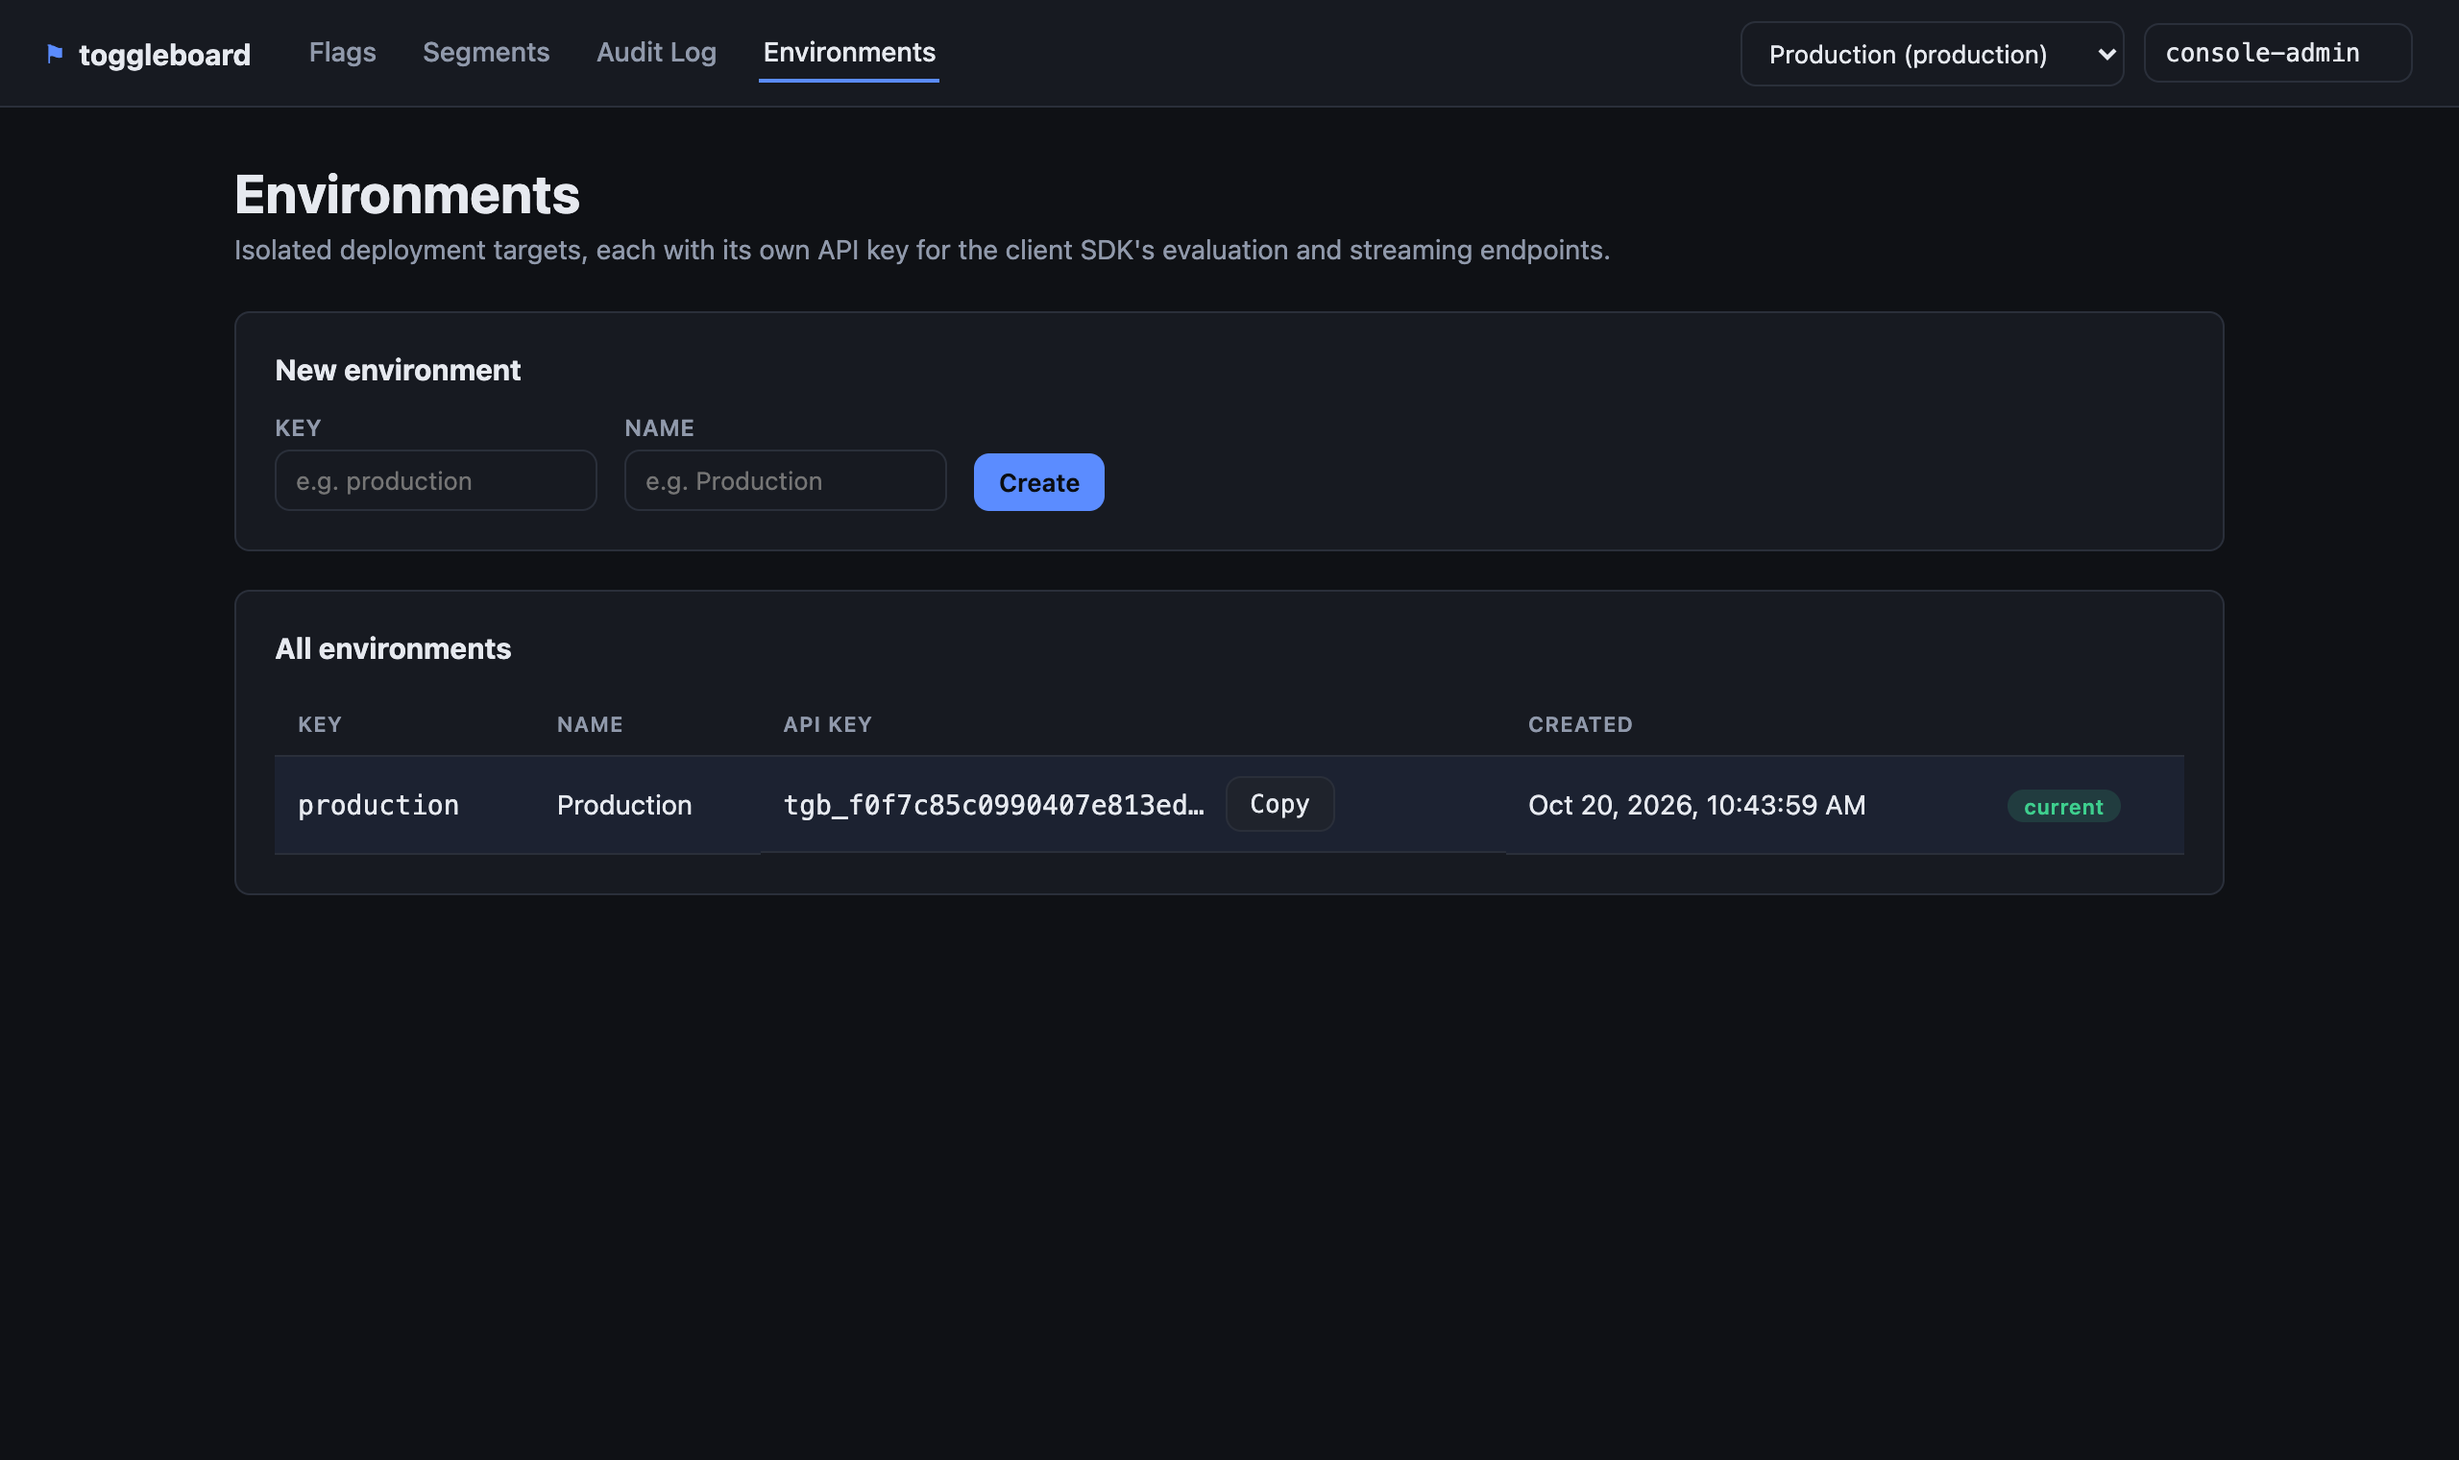
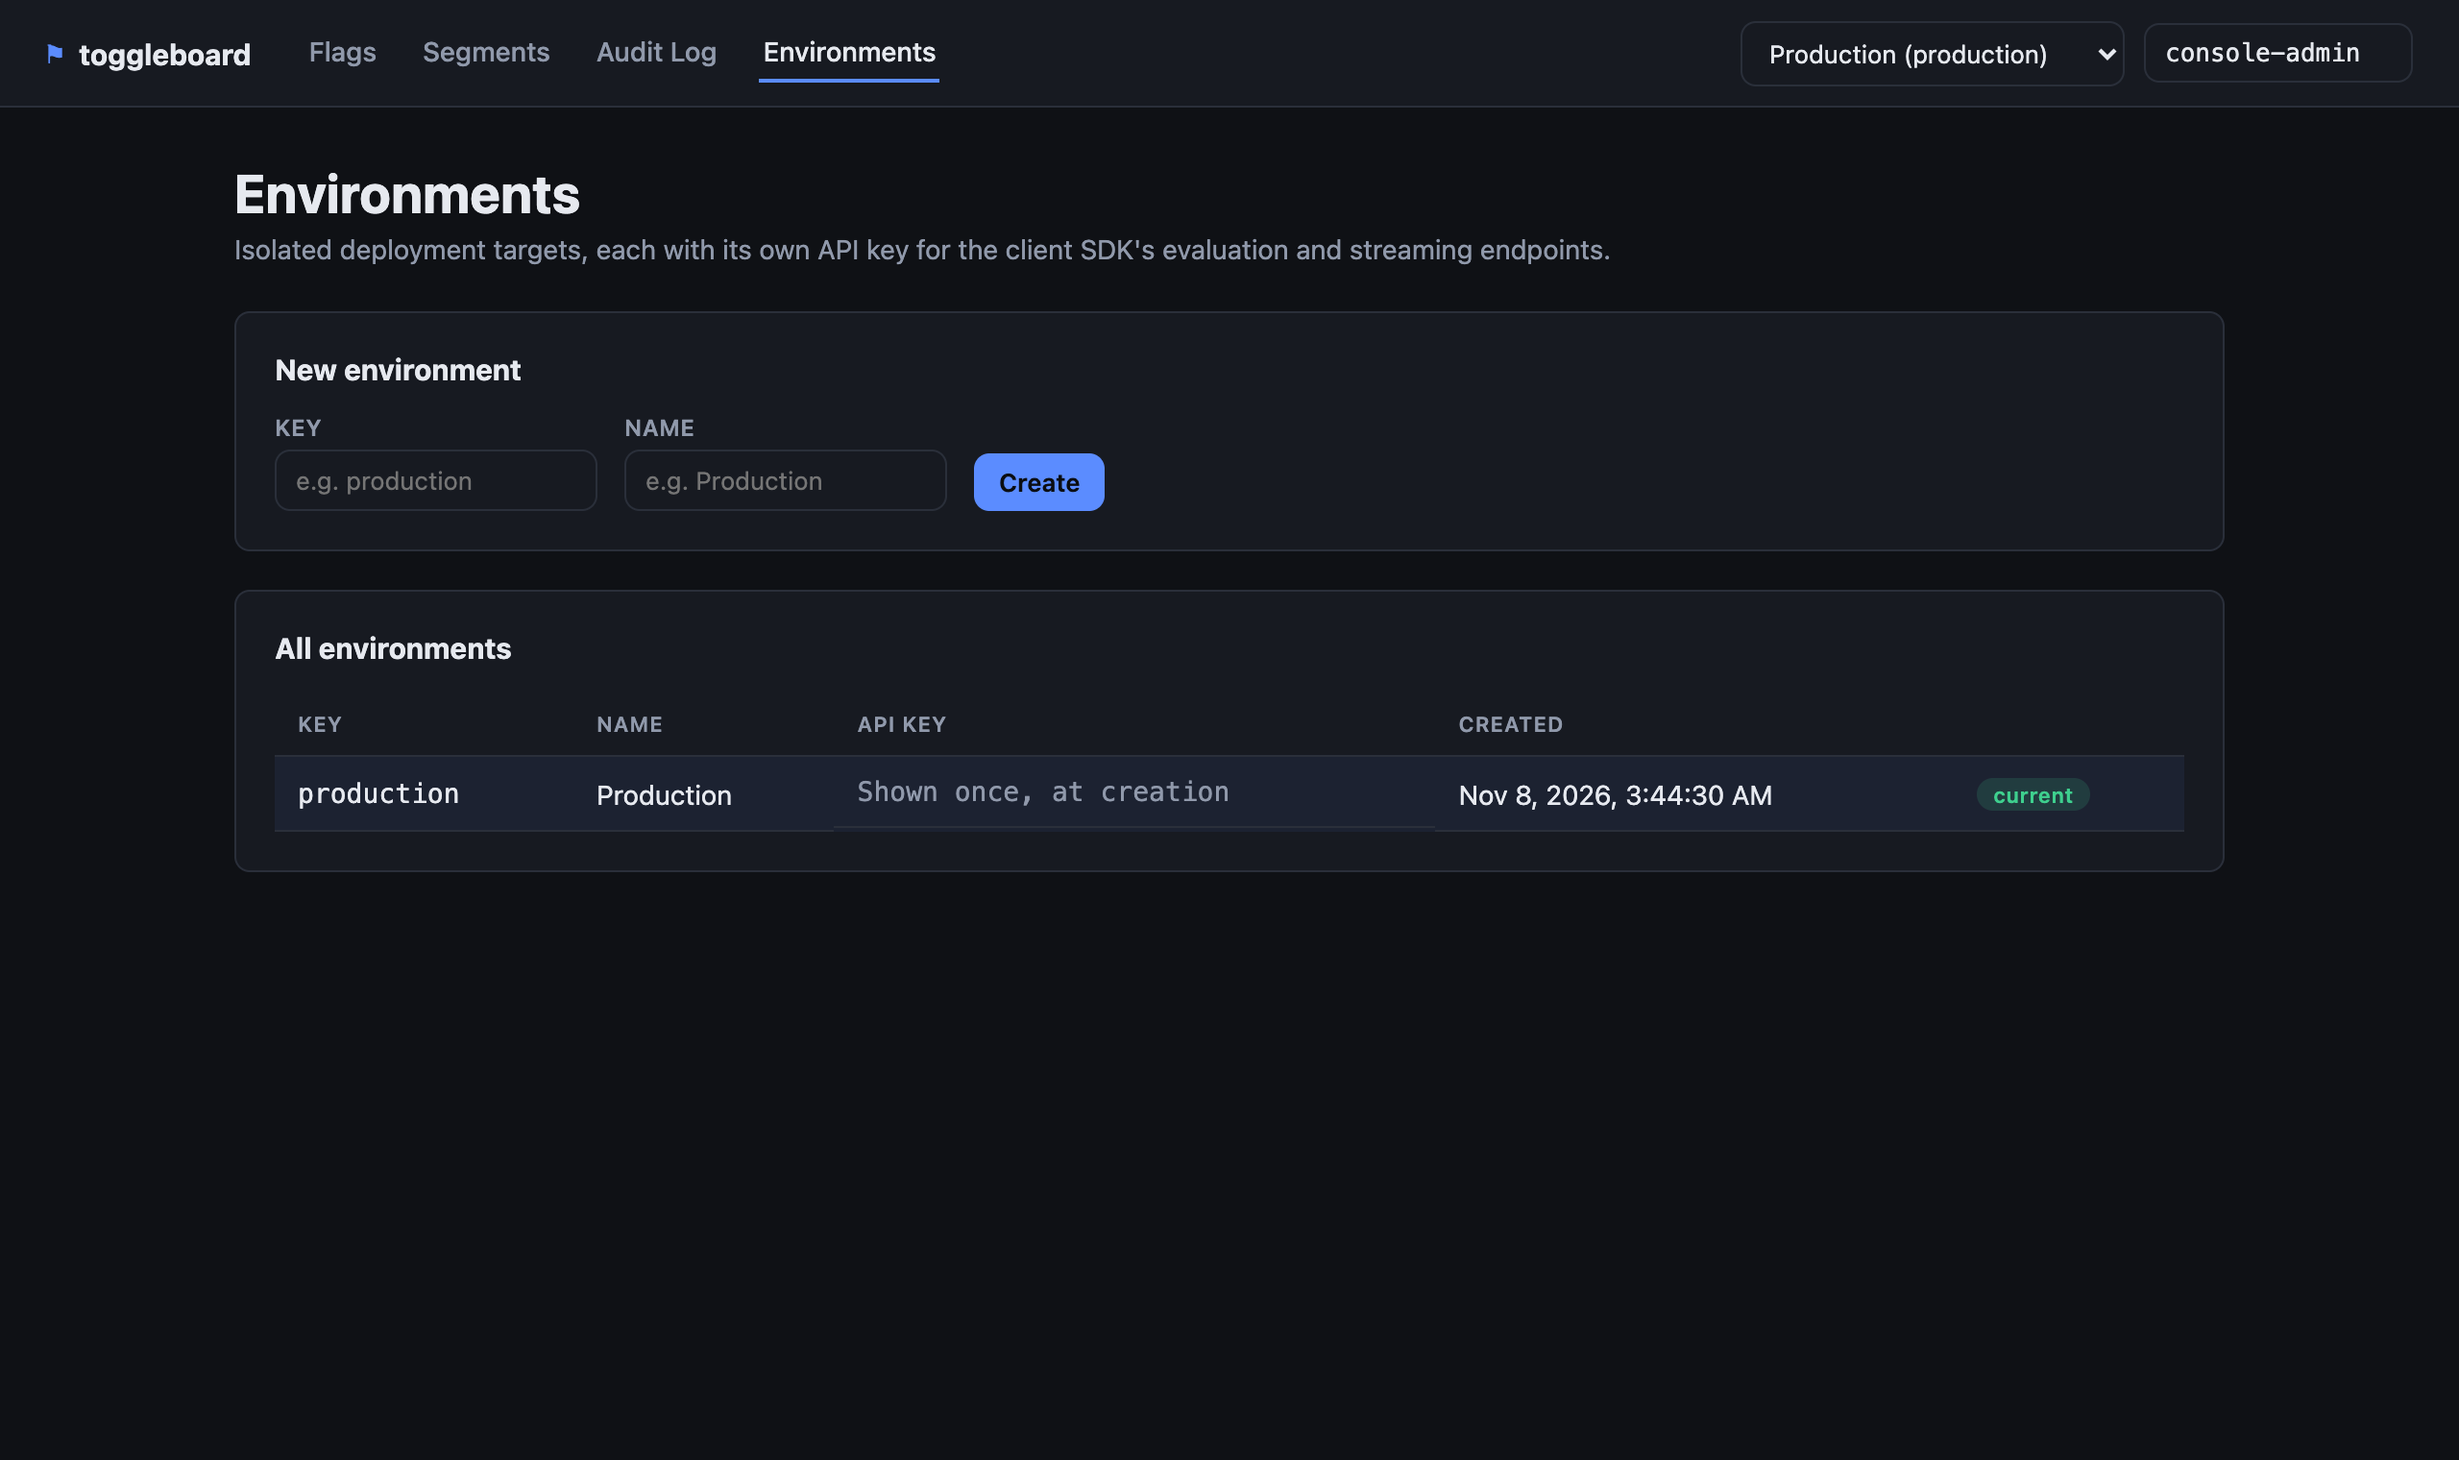
Fix #11: Environment API keys are returned in plaintext to any unauthenticated caller (#13)
* test: regression tests for plaintext apiKey leaking via GET endpoints

GET /api/v1/environments, GET /api/v1/environments/{key}, and
GET /api/v1/environments/{key}/audit are unauthenticated by design but
currently return the environment's live apiKey in plain text, defeating
the API-key auth model for /evaluate and /stream (issue #11).

* fix(api): stop leaking environment apiKey through unauthenticated GET endpoints

GET /api/v1/environments, GET /api/v1/environments/{key} and the audit log
all returned the live apiKey in plaintext to unauthenticated callers,
defeating the API-key auth model for /evaluate and /stream. List/get now
return a key-less summary, and the create audit entry records a redacted
snapshot instead of the raw Environment. POST /api/v1/environments is
unchanged and still returns the apiKey once, at creation time.

* fix(console): handle environments without a live apiKey in the list view

The Environments page read apiKey off every row returned by GET
/api/v1/environments, which is no longer present now that the API doesn't
leak it there. Show "Shown once, at creation" for rows without a captured
key instead of rendering undefined, and regenerate the affected screenshot.

diff --git a/toggleboard-console/src/app/features/environments/environments-page.component.html b/toggleboard-console/src/app/features/environments/environments-page.component.html
@@ -40,10 +40,14 @@
               <td class="mono">{{ env.key }}</td>
               <td>{{ env.name }}</td>
               <td class="mono apikey-cell">
-                <span>{{ env.apiKey }}</span>
-                <button type="button" (click)="copyApiKey(env.apiKey)">
-                  {{ copiedKey === env.apiKey ? 'Copied!' : 'Copy' }}
-                </button>
+                @if (env.apiKey) {
+                  <span>{{ env.apiKey }}</span>
+                  <button type="button" (click)="copyApiKey(env.apiKey)">
+                    {{ copiedKey === env.apiKey ? 'Copied!' : 'Copy' }}
+                  </button>
+                } @else {
+                  <span class="muted">Shown once, at creation</span>
+                }
               </td>
               <td>{{ env.createdAt | date: 'medium' }}</td>
               <td>

diff --git a/toggleboard-console/src/app/core/models.ts b/toggleboard-console/src/app/core/models.ts
@@ -9,7 +9,9 @@ export type AuditEntityType = 'FLAG' | 'ENVIRONMENT' | 'SEGMENT';
 export interface ToggleboardEnvironment {
   key: string;
   name: string;
-  apiKey: string;
+  // Only present on the create response; list/get responses omit it so the
+  // live key is never returned to an unauthenticated reader.
+  apiKey?: string;
   createdAt: string;
 }
 

diff --git a/toggleboard-console/src/app/features/environments/environments-page.component.css b/toggleboard-console/src/app/features/environments/environments-page.component.css
@@ -48,3 +48,7 @@ tr.current {
   overflow: hidden;
   text-overflow: ellipsis;
 }
+
+.apikey-cell .muted {
+  color: var(--text-dim);
+}

diff --git a/toggleboard-api/src/test/java/com/toggleboard/api/web/AuditControllerTest.java b/toggleboard-api/src/test/java/com/toggleboard/api/web/AuditControllerTest.java
@@ -1,5 +1,6 @@
 package com.toggleboard.api.web;
 
+import com.fasterxml.jackson.databind.JsonNode;
 import com.fasterxml.jackson.databind.ObjectMapper;
 import org.junit.jupiter.api.BeforeEach;
 import org.junit.jupiter.api.Test;
@@ -7,10 +8,12 @@ import org.springframework.beans.factory.annotation.Autowired;
 import org.springframework.boot.test.autoconfigure.web.servlet.AutoConfigureMockMvc;
 import org.springframework.boot.test.context.SpringBootTest;
 import org.springframework.test.web.servlet.MockMvc;
+import org.springframework.test.web.servlet.MvcResult;
 
 import java.util.Map;
 import java.util.UUID;
 
+import static org.assertj.core.api.Assertions.assertThat;
 import static org.springframework.test.web.servlet.request.MockMvcRequestBuilders.get;
 import static org.springframework.test.web.servlet.request.MockMvcRequestBuilders.post;
 import static org.springframework.test.web.servlet.request.MockMvcRequestBuilders.put;
@@ -28,14 +31,17 @@ class AuditControllerTest {
     private ObjectMapper objectMapper;
 
     private String environmentKey;
+    private String environmentApiKey;
 
     @BeforeEach
     void setUp() throws Exception {
         environmentKey = "env-" + UUID.randomUUID().toString().substring(0, 8);
         String body = objectMapper.writeValueAsString(Map.of("key", environmentKey, "name", "Test Env"));
-        mockMvc.perform(post("/api/v1/environments").contentType("application/json").content(body)
+        MvcResult result = mockMvc.perform(post("/api/v1/environments").contentType("application/json").content(body)
                         .header("X-Role", "admin"))
-                .andExpect(status().isCreated());
+                .andExpect(status().isCreated())
+                .andReturn();
+        environmentApiKey = objectMapper.readTree(result.getResponse().getContentAsString()).path("apiKey").asText();
     }
 
     @Test
@@ -70,6 +76,28 @@ class AuditControllerTest {
                 .andExpect(jsonPath("$[0].actor").value("bob"))
                 .andExpect(jsonPath("$[1].action").value("CREATE"))
                 .andExpect(jsonPath("$[1].actor").value("alice"));
+    }
+
+    @Test
+    void unauthenticatedAuditReadDoesNotExposeThePlaintextApiKey() throws Exception {
+        assertThat(environmentApiKey).as("environment apiKey captured from create response").isNotBlank();
+
+        MvcResult result = mockMvc.perform(get("/api/v1/environments/" + environmentKey + "/audit"))
+                .andExpect(status().isOk())
+                .andExpect(jsonPath("$[0].action").value("CREATE"))
+                .andReturn();
+
+        JsonNode entries = objectMapper.readTree(result.getResponse().getContentAsString());
+        JsonNode createEntry = entries.get(0);
+        String after = createEntry.path("after").asText("");
+        String before = createEntry.path("before").asText("");
+
+        assertThat(after)
+                .as("audit 'after' snapshot for the ENVIRONMENT CREATE entry must not leak the plaintext apiKey")
+                .doesNotContain(environmentApiKey);
+        assertThat(before)
+                .as("audit 'before' snapshot for the ENVIRONMENT CREATE entry must not leak the plaintext apiKey")
+                .doesNotContain(environmentApiKey);
     }
 
     @Test

diff --git a/toggleboard-api/src/test/java/com/toggleboard/api/web/EnvironmentControllerTest.java b/toggleboard-api/src/test/java/com/toggleboard/api/web/EnvironmentControllerTest.java
@@ -1,14 +1,17 @@
 package com.toggleboard.api.web;
 
+import com.fasterxml.jackson.databind.JsonNode;
 import com.fasterxml.jackson.databind.ObjectMapper;
 import org.junit.jupiter.api.Test;
 import org.springframework.beans.factory.annotation.Autowired;
 import org.springframework.boot.test.autoconfigure.web.servlet.AutoConfigureMockMvc;
 import org.springframework.boot.test.context.SpringBootTest;
 import org.springframework.test.web.servlet.MockMvc;
+import org.springframework.test.web.servlet.MvcResult;
 
 import java.util.UUID;
 
+import static org.assertj.core.api.Assertions.assertThat;
 import static org.springframework.test.web.servlet.request.MockMvcRequestBuilders.get;
 import static org.springframework.test.web.servlet.request.MockMvcRequestBuilders.post;
 import static org.springframework.test.web.servlet.result.MockMvcResultMatchers.jsonPath;
@@ -101,6 +104,46 @@ class EnvironmentControllerTest {
         mockMvc.perform(get("/api/v1/environments"))
                 .andExpect(status().isOk())
                 .andExpect(jsonPath("$[?(@.key == '" + key + "')]").exists());
+    }
+
+    @Test
+    void listingEnvironmentsWithoutAnyCredentialsDoesNotExposeTheApiKey() throws Exception {
+        String key = uniqueKey();
+        String body = objectMapper.writeValueAsString(new CreateRequest(key, "Production"));
+        mockMvc.perform(post("/api/v1/environments").contentType("application/json").content(body)
+                        .header("X-Role", "admin"))
+                .andExpect(status().isCreated());
+
+        MvcResult result = mockMvc.perform(get("/api/v1/environments"))
+                .andExpect(status().isOk())
+                .andReturn();
+
+        JsonNode list = objectMapper.readTree(result.getResponse().getContentAsString());
+        JsonNode match = null;
+        for (JsonNode node : list) {
+            if (key.equals(node.path("key").asText())) {
+                match = node;
+                break;
+            }
+        }
+        assertThat(match).as("environment '%s' in unauthenticated list response", key).isNotNull();
+        assertThat(match.has("apiKey"))
+                .as("unauthenticated GET /api/v1/environments must not leak the plaintext apiKey")
+                .isFalse();
+    }
+
+    @Test
+    void gettingAnEnvironmentByKeyWithoutAnyCredentialsDoesNotExposeTheApiKey() throws Exception {
+        String key = uniqueKey();
+        String body = objectMapper.writeValueAsString(new CreateRequest(key, "Production"));
+        mockMvc.perform(post("/api/v1/environments").contentType("application/json").content(body)
+                        .header("X-Role", "admin"))
+                .andExpect(status().isCreated());
+
+        mockMvc.perform(get("/api/v1/environments/" + key))
+                .andExpect(status().isOk())
+                .andExpect(jsonPath("$.key").value(key))
+                .andExpect(jsonPath("$.apiKey").doesNotExist());
     }
 
     private String uniqueKey() {

diff --git a/toggleboard-api/src/main/java/com/toggleboard/api/web/EnvironmentController.java b/toggleboard-api/src/main/java/com/toggleboard/api/web/EnvironmentController.java
@@ -4,6 +4,7 @@ import com.toggleboard.api.domain.Environment;
 import com.toggleboard.api.service.EnvironmentService;
 import com.toggleboard.api.web.dto.CreateEnvironmentRequest;
 import com.toggleboard.api.web.dto.EnvironmentResponse;
+import com.toggleboard.api.web.dto.EnvironmentSummaryResponse;
 import io.swagger.v3.oas.annotations.Operation;
 import io.swagger.v3.oas.annotations.tags.Tag;
 import jakarta.validation.Valid;
@@ -39,14 +40,14 @@ public class EnvironmentController {
     }
 
     @GetMapping
-    @Operation(summary = "List all environments")
-    public List<EnvironmentResponse> listAll() {
-        return environmentService.listAll().stream().map(EnvironmentResponse::from).toList();
+    @Operation(summary = "List all environments", description = "Does not include the apiKey; that is only returned at creation time")
+    public List<EnvironmentSummaryResponse> listAll() {
+        return environmentService.listAll().stream().map(EnvironmentSummaryResponse::from).toList();
     }
 
     @GetMapping("/{key}")
-    @Operation(summary = "Get a single environment by key")
-    public EnvironmentResponse getByKey(@PathVariable String key) {
-        return EnvironmentResponse.from(environmentService.getByKey(key));
+    @Operation(summary = "Get a single environment by key", description = "Does not include the apiKey; that is only returned at creation time")
+    public EnvironmentSummaryResponse getByKey(@PathVariable String key) {
+        return EnvironmentSummaryResponse.from(environmentService.getByKey(key));
     }
 }

diff --git a/toggleboard-api/src/main/java/com/toggleboard/api/service/EnvironmentService.java b/toggleboard-api/src/main/java/com/toggleboard/api/service/EnvironmentService.java
@@ -28,8 +28,12 @@ public class EnvironmentService {
         }
         Environment environment = new Environment(key, name, generateApiKey(), Instant.now());
         environmentRepository.save(environment);
-        auditService.recordCreate(key, AuditEntityType.ENVIRONMENT, key, actor, environment);
+        auditService.recordCreate(key, AuditEntityType.ENVIRONMENT, key, actor,
+                new EnvironmentAuditSnapshot(environment.key(), environment.name(), environment.createdAt()));
         return environment;
+    }
+
+    private record EnvironmentAuditSnapshot(String key, String name, Instant createdAt) {
     }
 
     public Environment getByKey(String key) {

diff --git a/toggleboard-api/src/main/java/com/toggleboard/api/web/dto/EnvironmentSummaryResponse.java b/toggleboard-api/src/main/java/com/toggleboard/api/web/dto/EnvironmentSummaryResponse.java
@@ -1,0 +1,15 @@
+package com.toggleboard.api.web.dto;
+
+import com.toggleboard.api.domain.Environment;
+
+import java.time.Instant;
+
+public record EnvironmentSummaryResponse(
+        String key,
+        String name,
+        Instant createdAt
+) {
+    public static EnvironmentSummaryResponse from(Environment environment) {
+        return new EnvironmentSummaryResponse(environment.key(), environment.name(), environment.createdAt());
+    }
+}
